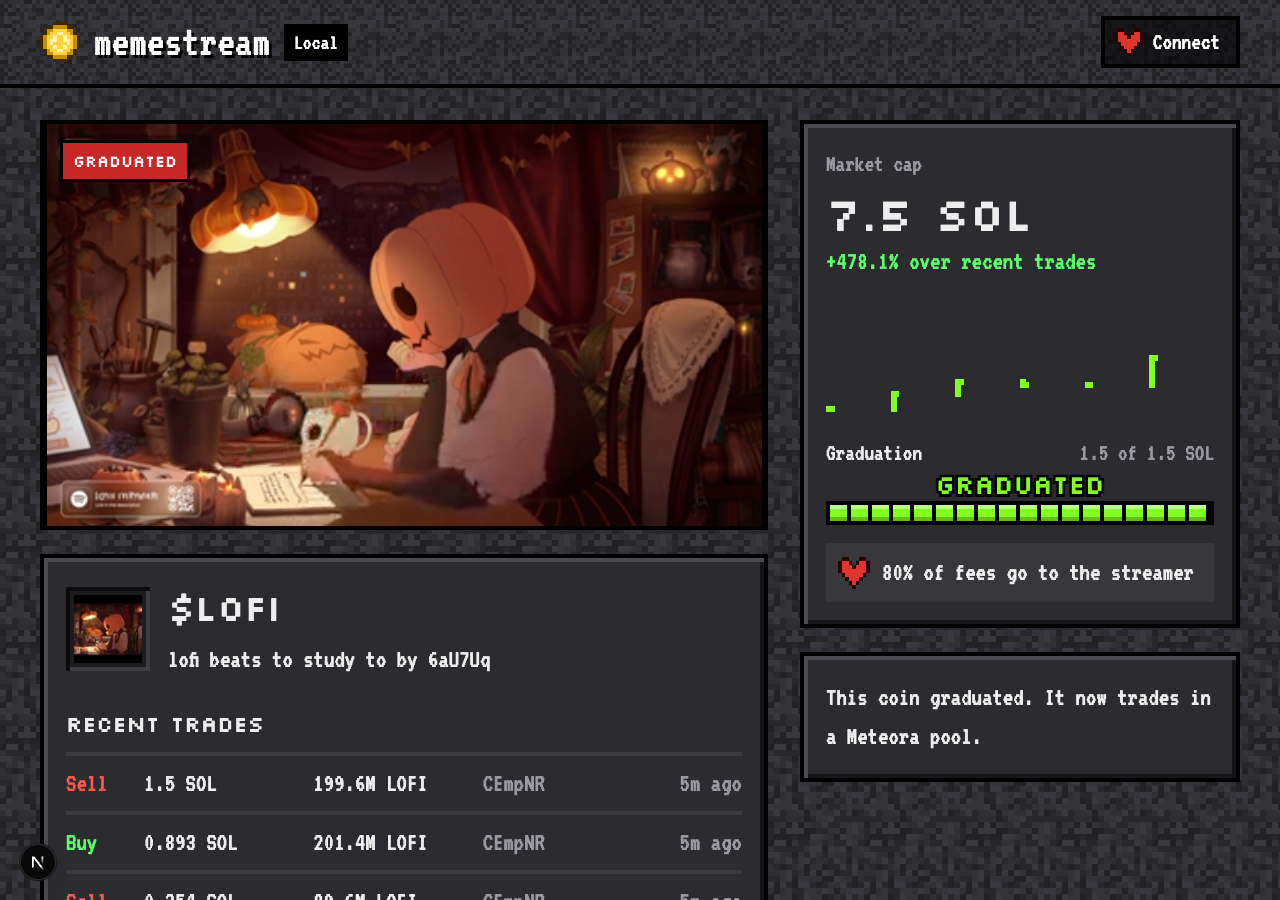
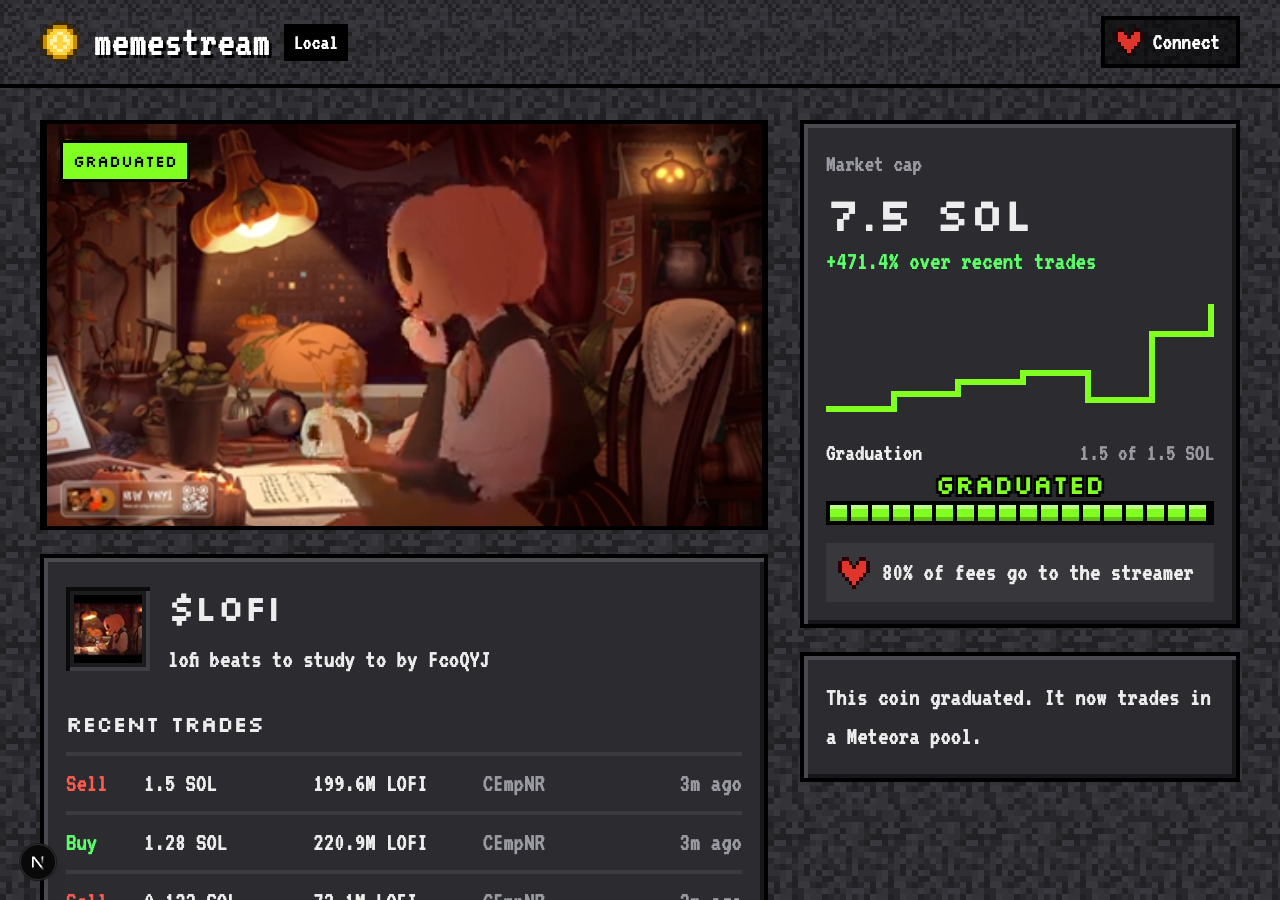
Design fixes: one-line tile text, connected stair chart, green Graduated tag, off-style disabled button, stream crop in overlay A

diff --git a/src/app/globals.css b/src/app/globals.css
@@ -57,7 +57,7 @@ canvas { image-rendering: pixelated; }
 .mbtn.buy { background: var(--buy); }
 .mbtn.sell { background: #b8372e; }
 .mbtn.off { background: #3a3a3a; color: #aaa; text-shadow: none; }
-.mbtn:disabled { filter: grayscale(.7) brightness(.7); cursor: not-allowed; }
+.mbtn:disabled { background: #3A3A3A; color: #c8c8c8; text-shadow: none; cursor: not-allowed; }
 .mbtn:focus-visible, .slot:focus-visible, input:focus-visible { outline: 4px solid var(--xp); outline-offset: 2px; }
 
 /* XP-style graduation bar: 18 segments, percent floats above. */
@@ -106,9 +106,10 @@ canvas { image-rendering: pixelated; }
 .tile { padding: 14px; display: block; }
 .tile .thumb { aspect-ratio: 16/9; padding: 6px; position: relative; }
 .tile .live { left: 14px; top: 14px; }
-.tile .meta { display: flex; justify-content: space-between; align-items: flex-end; gap: 10px; margin: 14px 0 12px; }
+.live.grad { background: #80FF20; color: #000; }
+.tile .meta { display: flex; justify-content: space-between; align-items: baseline; gap: 10px; margin-top: 14px; white-space: nowrap; }
 .tile h4 { font-size: 22px; }
-.tile p { font-size: 24px; margin-top: 4px; }
+.tile .name { font-size: 24px; margin: 4px 0 12px; white-space: nowrap; overflow: hidden; text-overflow: ellipsis; }
 @media (max-width: 1000px) { .grid { grid-template-columns: repeat(2, 1fr); } }
 @media (max-width: 640px) {
   .home { padding: 20px 16px 32px; }

diff --git a/src/components/home/HomeView.tsx b/src/components/home/HomeView.tsx
@@ -19,18 +19,13 @@ function CoinTile({ coin }: { coin: CoinView }) {
     <Link href={`/coin/${coin.mint}`} className="p tile">
       <div className="slot thumb">
         <StreamThumb streamUrl={coin.streamUrl} seedKey={coin.mint} sizes="(max-width: 640px) 100vw, 33vw" />
-        <span className="live">{graduated ? "Graduated" : "Live"}</span>
+        <span className={`live${graduated ? " grad" : ""}`}>{graduated ? "Graduated" : "Live"}</span>
       </div>
       <div className="meta">
-        <div>
-          <h4>${coin.symbol}</h4>
-          <p>{coin.name}</p>
-        </div>
-        <div style={{ textAlign: "right" }}>
-          <h4 className="num">{sol(coin.marketCapSol)} SOL</h4>
-          <p className="num mute">{Math.round(coin.progress * 100)}% to graduation</p>
-        </div>
+        <h4>${coin.symbol}</h4>
+        <h4 className="num">{sol(coin.marketCapSol)} SOL</h4>
       </div>
+      <p className="name">{coin.name}</p>
       <XpBar progress={coin.progress} small />
     </Link>
   );

diff --git a/src/components/pixel/art.ts b/src/components/pixel/art.ts
@@ -106,14 +106,15 @@ export function drawStepChart(canvas: HTMLCanvasElement, values: number[], color
   const span = max - min || 1;
   const step = w / (values.length - 1);
   ctx.fillStyle = color;
-  let previousY: number | null = null;
+  // A connected stair line: flat until the next trade, then a vertical step to its price.
+  let previous: { x: number; y: number } | null = null;
   values.forEach((value, i) => {
-    const x = Math.round(i * step);
+    const x = Math.min(Math.round(i * step), w - 2);
     const y = Math.round(h - 3 - ((value - min) / span) * (h - 6));
-    if (previousY !== null) {
-      for (let k = Math.min(previousY, y); k <= Math.max(previousY, y); k++) ctx.fillRect(x, k, 2, 2);
+    if (previous) {
+      ctx.fillRect(previous.x, previous.y, x - previous.x + 2, 2);
+      ctx.fillRect(x, Math.min(previous.y, y), 2, Math.abs(y - previous.y) + 2);
     }
-    ctx.fillRect(x, y, 3, 2);
-    previousY = y;
+    previous = { x, y };
   });
 }

diff --git a/src/components/overlay/Overlay.tsx b/src/components/overlay/Overlay.tsx
@@ -7,6 +7,7 @@
 import { useMemo } from "react";
 import { type CoinDetail, useCoin } from "@/components/hooks";
 import { Scene, Sprite, XpBar } from "@/components/pixel/Pixel";
+import { StreamThumb } from "@/components/pixel/StreamThumb";
 import { useHostname } from "@/components/use-hostname";
 import { parseStreamLink } from "@/lib/stream-link";
 import { percentChange, signedPercent, sol } from "@/lib/format";
@@ -47,8 +48,8 @@ export function Overlay({ mint, initial, layout, link, preview }: Props) {
       {layout === "a" && (
         <div className="p ovA">
           <div className="oh">
-            <div className="slot">
-              <Sprite name="coin" />
+            <div className="slot" style={{ overflow: "hidden" }}>
+              <StreamThumb streamUrl={coin.streamUrl} seedKey={mint} sizes="76px" />
             </div>
             <div>
               <div className="tk">{ticker}</div>

diff --git a/src/components/coin/CoinPageView.tsx b/src/components/coin/CoinPageView.tsx
@@ -25,7 +25,7 @@ function StreamEmbed({ coin }: { coin: CoinView }) {
       ) : (
         <Scene seedKey={coin.mint} width={192} height={108} />
       )}
-      <span className="live">{coin.status === "graduated" ? "Graduated" : "Live"}</span>
+      <span className={`live${coin.status === "graduated" ? " grad" : ""}`}>{coin.status === "graduated" ? "Graduated" : "Live"}</span>
     </div>
   );
 }

diff --git a/design/SPEC.md b/design/SPEC.md
@@ -55,16 +55,16 @@ Shared rules (apply to B):
 
 **Coin page**
 - Left: the live stream plays in a 16:9 slot, muted, with the Live tag on top (YouTube or Twitch player), then a panel with coin image slot, `$TICKER`, "<stream name> by <streamer>", and Recent trades (Buy/Sell, SOL, coins, wallet, time ago).
-- Right, panel 1: Market cap (hero number), change in the last hour, pixel step chart, Graduation label + "52.7 of 85 SOL", XP bar with %, then the heart row **"80% of fees go to the streamer"** (must stay visible).
+- Right, panel 1: Market cap (hero number), change, pixel step chart (one connected line: flat steps joined by vertical segments, never loose dots, even with few trades), Graduation label + "52.7 of 85 SOL", XP bar with %, then the heart row **"80% of fees go to the streamer"** (must stay visible).
 - Right, panel 2: Buy/Sell tabs, amount slot in SOL, chips 0.1 / 0.5 / 1 / Max, "You get about N TICKER", primary "Buy TICKER".
 
 **Home**
 - "Live coins", one line "Buy the stream you think will pop.", Go live button.
 - Sort: Hot / New / Close to graduation.
-- B layout: 3-column tiles. Each tile: the stream picture (16:9) with Live tag, `$TICKER`, stream name by streamer, market cap, 1-hour change, small XP bar with "% to graduation".
+- B layout: 3-column tiles. Each tile: the stream picture (16:9) with Live tag, then two rows. Row 1: `$TICKER` left, market cap right. Row 2: stream name left (one line, cut off with an ellipsis if long), change right. Then the small XP bar. No "% to graduation" text on tiles; the bar shows it. No text wraps in a tile.
 
 **Go live**
-- One panel: Image slot (square; NOT BUILT, the app has no upload yet, so leave it out until it does), Stream name, Ticker, Stream link ("Twitch, YouTube or Kick link").
+- One panel: Image slot (square; NOT BUILT, the app has no upload yet, so leave it out until it does), Stream name, Ticker, Stream link (placeholder "YouTube or Twitch live link"; Kick links are not allowed).
 - Heart row: "80% of trade fees go to you. Your wallet can't buy this coin."
 - Primary button "Launch coin".
 
@@ -75,6 +75,7 @@ Sentence case. No ellipses. No arrows on buttons. Ticker always has `$` in title
 - Home tile: the stream's live picture from YouTube or Twitch.
 - Coin icon (header slot, overlay slot): a square center crop of the stream picture, else the pixel scene. Later, when image upload exists, the uploaded image comes first.
 - Coin page: the stream plays muted. People unmute it in the player.
+- Tags on the picture: "Live" = red `#C62828`, white text. "Graduated" = XP green `#80FF20`, black text, so the two never look alike.
 - Fallback: if there is no picture (stream offline, bad link, load error), show the pixel scene. Do not show a broken image or an empty box.
 - The pixel scenes in the mock stills stand in for these real pictures.
 
